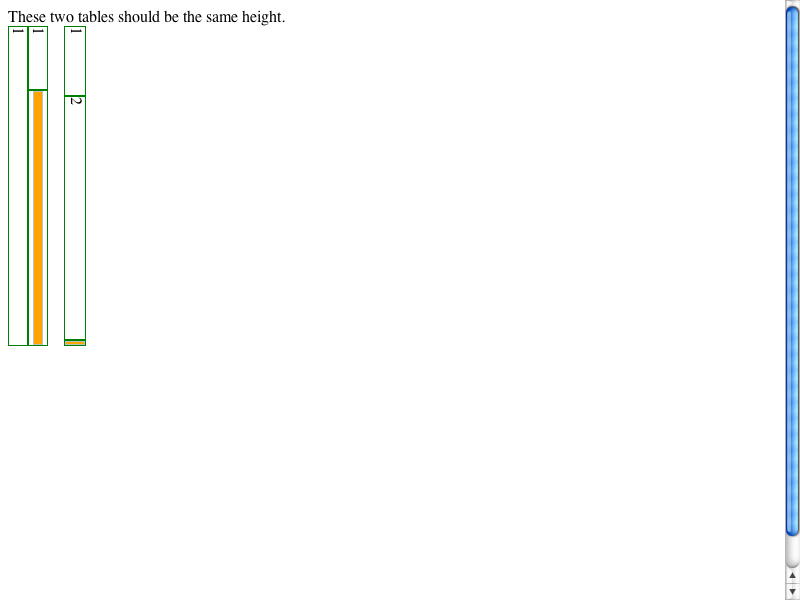
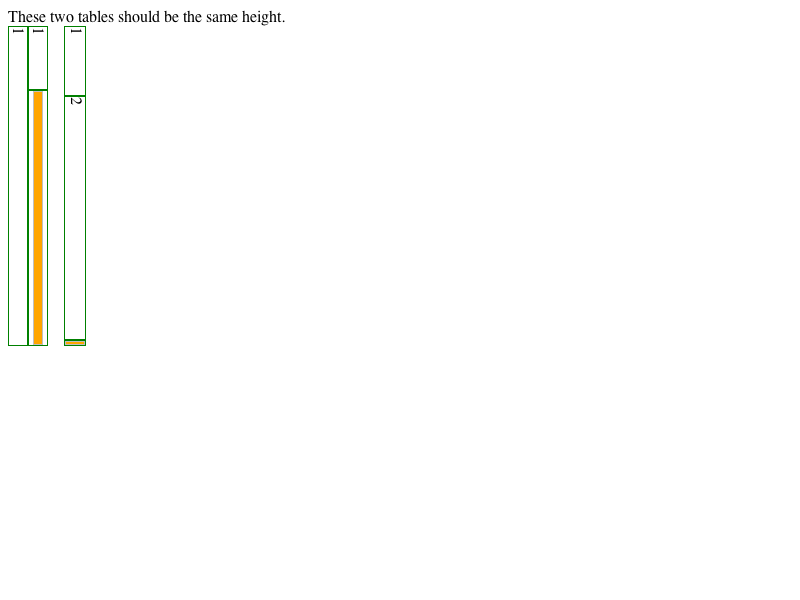
incorrect height with height:auto and writing-mode:vertical-rl https://bugs.webkit.org/show_bug.cgi?id=68497
Reviewed by David Hyatt.

Source/WebCore:

* rendering/RenderBox.cpp:
(WebCore::RenderBox::sizesToIntrinsicLogicalWidth):

LayoutTests:

I'm not sure I completely understand the changes to the height/width
of the body/html elements, but the new height/width look correct to me.

* platform/mac/fast/backgrounds/background-leakage-transforms-expected.txt:
* platform/mac/fast/table/028-vertical-expected.txt:
* platform/mac/fast/table/height-percent-test-vertical-expected.txt:
* platform/mac/fast/writing-mode/fallback-orientation-expected.txt:

Identifier: 86381@main
git-svn-id: https://svn.webkit.org/repository/webkit/trunk@97654 268f45cc-cd09-0410-ab3c-d52691b4dbfc

Changed region(s): [[0.9688, 0.0, 1.0, 1.0]]

diff --git a/Source/WebCore/rendering/RenderBox.cpp b/Source/WebCore/rendering/RenderBox.cpp
@@ -1816,6 +1816,9 @@ bool RenderBox::sizesToIntrinsicLogicalWidth(LogicalWidthType widthType) const
     if (logicalWidth.type() == Auto && !(parent()->isDeprecatedFlexibleBox() && parent()->style()->boxOrient() == VERTICAL && parent()->style()->boxAlign() == BSTRETCH) && node() && (node()->hasTagName(inputTag) || node()->hasTagName(selectTag) || node()->hasTagName(buttonTag) || node()->hasTagName(textareaTag) || node()->hasTagName(legendTag)))
         return true;
 
+    if (isHorizontalWritingMode() != containingBlock()->isHorizontalWritingMode())
+        return true;
+
     return false;
 }
 
